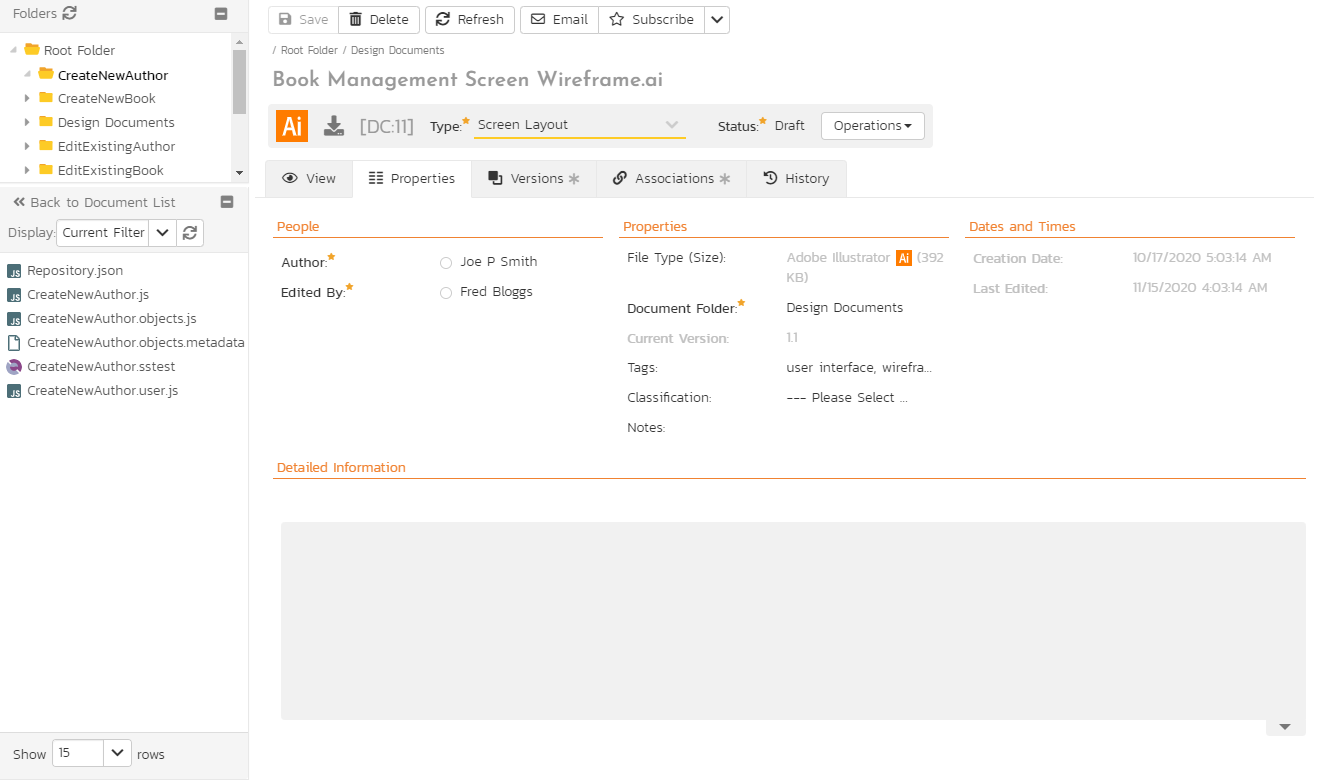
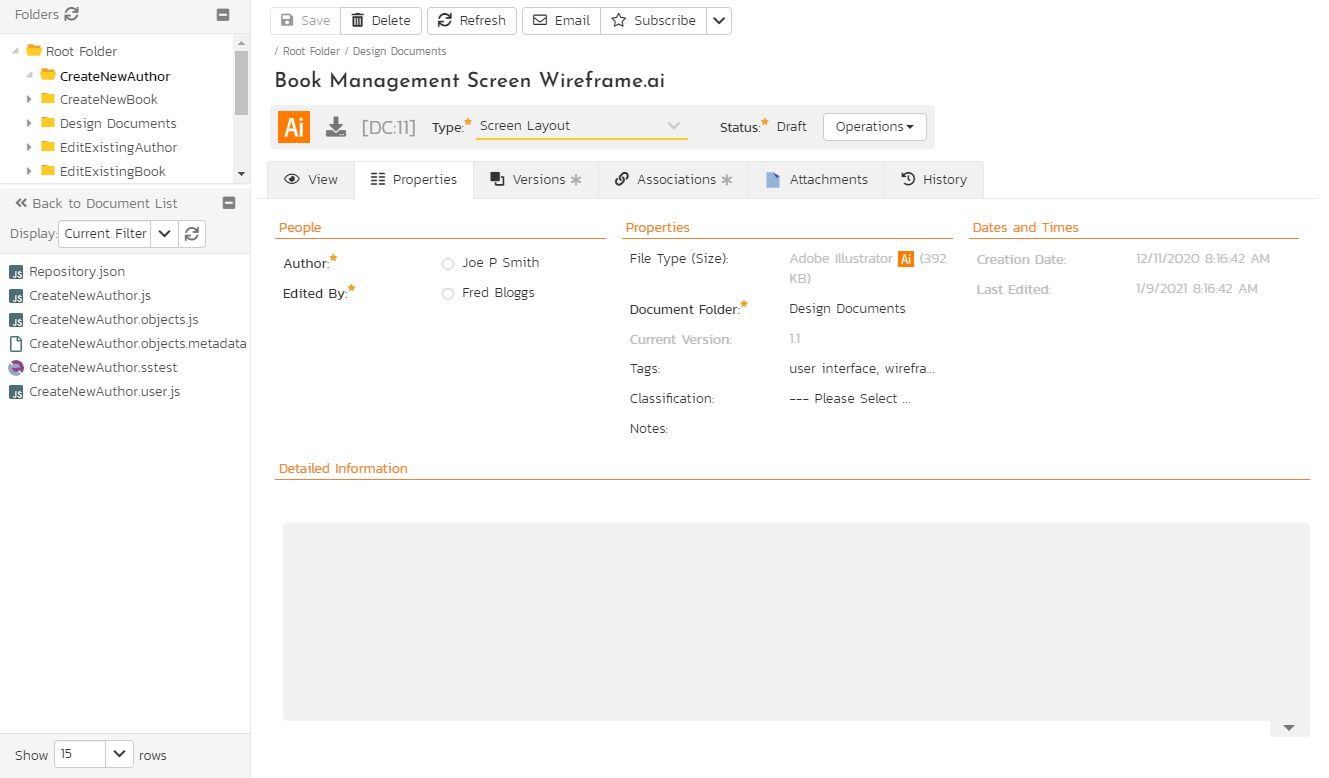
finishes documentation for 6.9

diff --git a/docs/Spira-User-Manual/Reports-Center.md b/docs/Spira-User-Manual/Reports-Center.md
@@ -10,7 +10,7 @@ This page consists of four main areas:
 1. The top bar shows the product name, controls for changing the graph widgets, and a **dropdown release picker**. The selected release will affect all of the reporting / graphing widgets simultaneously. You can either choose a specific release (includes any child sprints) or "All Releases". Your selection here is synced with the selection you set on the product dashboard page.
 2. The top left-hand pane displays a list of any reports that have either been saved by the currently logged in user, or those reports created by other members of the product, that have been marked (by that user) as 'shareable'.
 3. The bottom left-hand main pane displays a list of the printable reports available in the system, categorized by the artifact they primarily relate to (requirements, test cases, incidents and releases). Clicking on any of the report hyperlinks will take you to the [configuration page](#reports-configuration) for the report in question below for details).
-4. The right-hand pane is a dashboard that contains the set of graph widgets configured by the current user. By default the dashboard will display: the Incident Progress Rate, Test Run Progress Rate, Requirement Summary, Test Case Summary, Incident Aging and Task Burndown. When "All Releases" is seleted from the dropdown release picker, some widgets show information for every single release and sprint, and others only for active releases/sprints[^active-release]:
+4. The right-hand pane is a dashboard that contains the set of graph widgets configured by the current user. By default the dashboard will display: the Incident Progress Rate, Test Run Progress Rate, Requirement Summary, Test Case Summary, Incident Aging and Task Burndown. When "All Releases" is selected from the dropdown release picker, some widgets show information for every single release and sprint, and others only for active releases/sprints[^active-release]:
 
     - Requirement Graphs widget: only active releases
     - Task Graphs widgets: only active releases
@@ -18,7 +18,6 @@ This page consists of four main areas:
     - All Date-Range Graphs widgets: all releases
     - Custom Graphs that use the token ${ReleaseId}: no data
     - Custom Graphs that use the token ${ReleaseAndChildIds}: only active releases
-
 
 In addition to the graphs displayed by default, you can click on the "***Add Items***" buttons to add additional graphs to the reporting dashboard:
 
@@ -319,7 +318,7 @@ The requirements coverage graph shows how many requirements are currently in a p
 
 The x-axis of the report represents the various test execution statuses that a requirement can have as its coverage status (plus the Not-Covered status), and the individual bars are grouped by the requirements importance. Each data-value can be viewed by positioning the mouse pointer over the bar, and a "tooltip" will pop-up listing the actual data value.
 
-Clicking on the "***Display Data Grid***" button will display the underlying data that is being used to generate the graph. You can also filter the graph to just display data for a specific release/sprint as well as for the product as a whole. In addition, clicking on the "***Download Data as CSV***" button will export the datagrid into Comma Separated Values (CSV) format that can be opened in MS-Excel. Some browsers also support the ability to save the graph as an image file (JPEG, PNG and GIF formats).
+Clicking on the "***Display Data Grid***" button will display the underlying data that is being used to generate the graph. In addition, clicking on the "***Download Data as CSV***" button will export the datagrid into Comma Separated Values (CSV) format that can be opened in MS-Excel. Some browsers also support the ability to save the graph as an image file (JPEG, PNG and GIF formats).
 
 
 ### Requirements Burndown Graph
@@ -330,13 +329,11 @@ The Requirements Burndown graph shows the remaining number of story points that 
 
 The y-axis of the graph displays the total remaining number of story points that needs to be done (the actual burndown), with a blue line indicating the ideal burndown. In addition, there are bars displayed at each interval of the x-axis that shows the completed number of story points for that interval.
 
-The x-axis can be configured to display three different levels of granularity:
+The x-axis display will change based on the selection of the [dropdown release picker](#overview):
 
-**All Releases** -- This shows the total remaining number of story points that needs to be done for each of the releases in the product
-
-**Specific Release** -- This shows the total remaining number of story points that needs to be done for each of the sprints in the selected release
-
-**Specific Sprint** -- This shows the total remaining number of story points that needs to be done for each working day in the date-range covered by the selected sprint.
+- **All Releases**: total remaining story points for each releases in the product
+- **Specific Release**: total remaining story points for each of the sprints in the selected release
+- **Specific Sprint**: total remaining story points for each working day in the date-range covered by the selected sprint
 
 Clicking on the "***Display Data Grid***" button will display the underlying data that is being used to generate the graph. In addition, clicking on the "***Download Data as CSV***" button will export the datagrid into Comma Separated Values (CSV) format that can be opened in MS-Excel. Some browsers also support the ability to save the graph as an image file (JPEG, PNG and GIF formats).
 
@@ -349,13 +346,11 @@ The Requirements Burnup graph shows the cumulative number of story points outsta
 
 The y-axis of the graph displays the cumulative increase in number of story points for the product (the actual burnup), with a blue line indicating the ideal burnup. In addition, there are bars displayed at each interval of the x-axis that shows the number of completed story points for that interval.
 
-The x-axis can be configured to display three different levels of granularity:
+The x-axis display will change based on the selection of the [dropdown release picker](#overview):
 
-**All Releases** -- This shows the increase in number of story points for each of the releases in the product
-
-**Specific Release** -- This shows the increase in number of story points for each of the sprints in the selected release
-
-**Specific Sprint** -- This shows the increase in number of story points for each working day in the date-range covered by the selected sprint.
+- **All Releases**: increase in the story points for each releases in the product
+- **Specific Release**: increase in the story points for each of the sprints in the selected release
+- **Specific Sprint**: increase in the story points for each working day in the date-range covered by the selected sprint
 
 Clicking on the "***Display Data Grid***" button will display the underlying data that is being used to generate the graph. In addition, clicking on the "***Download Data as CSV***" button will export the datagrid into Comma Separated Values (CSV) format that can be opened in MS-Excel. Some browsers also support the ability to save the graph as an image file (JPEG, PNG and GIF formats).
 
@@ -366,13 +361,11 @@ The Requirements Velocity graph shows the total number of story points that have
 
 ![](img/Reports_Center_374.png)
 
-The y-axis of the graph displays the total number of story points, and the x-axis can be configured to display three different levels of granularity:
+The y-axis display will change based on the selection of the [dropdown release picker](#overview):
 
-**All Releases** -- This shows the total number of story points for each of the releases in the product
-
-**Specific Release** -- This shows the total number of story points for each of the sprints in the selected release
-
-**Specific Sprint** -- This shows the total number of story points for each working day in the date-range covered by the selected sprint.
+- **All Releases**: total remaining story points for each releases in the product
+- **Specific Release**: total remaining story points for each of the sprints in the selected release
+- **Specific Sprint**: total remaining story points for each working day in the date-range covered by the selected sprint
 
 Clicking on the "***Display Data Grid***" button will display the underlying data that is being used to generate the graph. In addition, clicking on the "***Download Data as CSV***" button will export the datagrid into Comma Separated Values (CSV) format that can be opened in MS-Excel. Some browsers also support the ability to save the graph as an image file (JPEG, PNG and GIF formats).
 
@@ -401,13 +394,11 @@ The Task Velocity graph shows the total estimated and actual effort (in number o
 
 ![](img/Reports_Center_377.png)
 
-The y-axis of the graph displays the total estimated and actual effort delivered (in hours), and the x-axis can be configured to display three different levels of granularity:
+The y-axis of the graph displays the total estimated and actual effort delivered (in hours). The x-axis display will change based on the selection of the [dropdown release picker](#overview):
 
-**All Releases** -- This shows the total estimated and actual effort for each of the releases in the product
-
-**Specific Release** -- This shows the total estimated and actual effort for each of the sprints in the selected release
-
-**Specific Sprint** -- This shows the total estimated actual effort for each working day in the date-range covered by the selected sprint.
+- **All Releases**: total estimated and actual effort for each releases in the product
+- **Specific Release**: total estimated and actual effort for each of the sprints in the selected release
+- **Specific Sprint**: total estimated and actual effort for each working day in the date-range covered by the selected sprint
 
 Clicking on the "***Display Data Grid***" button will display the underlying data that is being used to generate the graph. In addition, clicking on the "***Download Data as CSV***" button will export the datagrid into Comma Separated Values (CSV) format that can be opened in MS-Excel. Some browsers also support the ability to save the graph as an image file (JPEG, PNG and GIF formats).
 
@@ -420,13 +411,11 @@ The Task Burnup graph shows the cumulative amount of work outstanding for each r
 
 The y-axis of the graph displays the cumulative increase in work (in hours) for the product (the actual burnup), with a blue line indicating the ideal burnup. In addition, there are bars displayed at each interval of the x-axis that shows the remaining effort and completed effort for that interval.
 
-The x-axis can be configured to display three different levels of granularity:
+The x-axis display will change based on the selection of the [dropdown release picker](#overview):
 
-**All Releases** -- This shows the increase in work for each of the releases in the product
-
-**Specific Release** -- This shows the increase in work for each of the sprints in the selected release
-
-**Specific Sprint** -- This shows the increase in work for each working day in the date-range covered by the selected sprint.
+- **All Releases**: increase in work for each releases in the product
+- **Specific Release**: increase in work for each of the sprints in the selected release
+- **Specific Sprint**: increase in work for each working day in the date-range covered by the selected sprint
 
 Clicking on the "***Display Data Grid***" button will display the underlying data that is being used to generate the graph. In addition, clicking on the "***Download Data as CSV***" button will export the datagrid into Comma Separated Values (CSV) format that can be opened in MS-Excel. Some browsers also support the ability to save the graph as an image file (JPEG, PNG and GIF formats).
 
@@ -438,7 +427,7 @@ The blue line on the graphs indicates the ideal burndown. The other line shows t
 
 ![](img/Reports_Center_379.png)
 
-**How changing the displayed release for the page changes the x-axis:**
+The x-axis display will change based on the selection of the [dropdown release picker](#overview):
 
 - **All Releases**: all active releases in the product
 - **Specific Release**: all sprints within the chosen release. If the release has no sprints, the chart will be empty -- child releases are not shown

diff --git a/docs/About/release-notes-v6.md b/docs/About/release-notes-v6.md
@@ -9,7 +9,7 @@
 
     - **Access custom report data from external tools** (SpiraPlan): First, we've added [lots more reporting views](../../Reporting/Custom-Report-Tables) to help build out even more queries (available in all editions of Spira). Next, SpiraPlan customers can use 3rd party tools like spreadsheets and database reporting packages to query and report against all custom report tables in the application via the ODATA standard (read our [in-depth tutorial](../../Reporting/OData-Tutorial)). This takes custom reports to a whole new level of integration and ease of use.
 
-    - **Customize custom fields**: [Custom properties](../../Spira-Administration-Guide/Templates-Custom-Properties) have been turned up to 100 (minus 1). You can now have 99 custom properties for each artifact in a template. Order your custom properties how you like, and add a useful tooltip description for users to read on details pages. 
+    - **Customize custom fields**: [Custom properties](../../Spira-Administration-Guide/Template-Custom-Properties) have been turned up to 100 (minus 1). You can now have 99 custom properties for each artifact in a template. Order your custom properties how you like, and add a useful tooltip description for users to read on details pages. 
 
     **NOTE**: Internet Explorer is no longer supported by SpiraTest, SpiraTeam, or SpiraPlan. You should use a modern and secure browser instead.
 
@@ -26,9 +26,9 @@
 
     * **Custom Properties**
 
-        - You can [optionally set a position](../../Spira-Administration-Guide/Templates-Custom-Properties) for custom properties to change the order custom properties are displayed in each section on details pages [RQ:3053]
-        - You can optionally add [help tooltip text](../../Spira-Administration-Guide/Templates-Custom-Properties/#edit-custom-properties) to custom properties to explain to users how to use the field (they show as tooltips on details pages) [RQ:3055]
-        - Each artifact that has [custom properties](../../Spira-Administration-Guide/Templates-Custom-Properties) already now supports an additional 69 custom properties in each template, bringing the total to 99 [RQ:3052]
+        - You can [optionally set a position](../../Spira-Administration-Guide/Template-Custom-Properties) for custom properties to change the order custom properties are displayed in each section on details pages [RQ:3053]
+        - You can optionally add [help tooltip text](../../Spira-Administration-Guide/Template-Custom-Properties/#edit-custom-properties) to custom properties to explain to users how to use the field (they show as tooltips on details pages) [RQ:3055]
+        - Each artifact that has [custom properties](../../Spira-Administration-Guide/Template-Custom-Properties) already now supports an additional 69 custom properties in each template, bringing the total to 99 [RQ:3052]
 
     * **History and Baselining**
 
@@ -47,16 +47,27 @@
         - Let template admins prevent status changes by users with bulk edit permissions on artifact list and board pages via a new [product template setting](../../Spira-Administration-Guide/System-Workspaces/#view-edit-templates) [RQ:3049]
         - Show warnings on login page to all users a week before a license expires and clearer messages after a license has expired [RQ:2649]
         - Carry out a security review of SpiraPlan and address vulnerabilities found [RQ:2673]
-        - Improve [product cloning]../../Spira-Administration-Guide/System-Workspaces/#product-cloning) by giving users two options: a full product clone or a product copy to use as a clean slate [RQ:3083]
+        - Improve [product cloning](../../Spira-Administration-Guide/System-Workspaces/#product-cloning) by giving users two options: a full product clone or a product copy to use as a clean slate [RQ:3083]
 
 ??? bug "Bug fixes and enhancements"
 
     * **Administration**
 
-        - Stop product cloning exiting midway with a failure message if an attachment file is missing from the directory [IN:5611]
-        - Improve the performance of cloning a product by improving how attachments are copied into the new product [IN:6172]
-        - Add product and system admin settings option to disable various calculations and updates to temporarily improve performance [IN:6207]
-        - Add direct links to 'Custom Properties' in the Admin Menu under each Artifact Type to make navigation easier [IN:6239]
+        - Stop [product cloning](../../Spira-Administration-Guide/System-Workspaces/#product-cloning) exiting midway with a failure message if an attachment file is missing from the directory [IN:5611]
+        - Improve the performance of [cloning a product](../../Spira-Administration-Guide/System-Workspaces/#product-cloning) by improving how attachments are copied into the new product [IN:6172]
+        - Add [product](../../Spira-Administration-Guide/Product-Planning/#testing-settings) and [system](../../Spira-Administration-Guide/System/#general-settings) admin settings option to disable various calculations and updates to temporarily improve performance [IN:6207]
+        - Add direct links to '[Custom Properties](../../Spira-Administration-Guide/Template-Custom-Properties)' in the Admin Menu under each Artifact Type to make navigation easier [IN:6239]
+
+    * **Enhancements**
+
+        - Convert the [Saved](../../Spira-User-Manual/User-Product-Management/#my-saved-reports) [Reports](../../Spira-User-Manual/Reports-Center) Widget's hyperlinks to make them shareable [IN:6106]
+        - Add [additional views for custom reporting](../../Reporting/Custom-Report-Tables) to give more flexibility in what data can be queried [IN:6307]
+        - Add an [attachments tab for documents](../../Spira-User-Manual/Document-Management/#attachments), to enable, for example, pasting of images into inline rich text documents [IN:6243]
+        - Allow document names to be edited on [list](../../Spira-User-Manual/Document-Management/#document-list) and [details](../../Spira-User-Manual/Document-Management/#document-details) pages (note that the filename will be overwritten when you upload a new version) [IN:6292]
+        - Add an option on the [requirement detail page](../../Spira-User-Manual/Requirements-Management/#requirement-details) to insert a child requirement to the current requirement [IN:4913]
+        - Improve the performance of associations tabs by adding a database index to speed up the most common retrieval [IN:6173]
+        - Navigating tabs on details pages updates the URL with the tab name to make it easier to share your current view with others [IN:6194]
+        - Make it clear when using the application with Internet Explorer that the browser is no longer supported [IN:6246]
     
     * **Bug fixes**
 
@@ -69,17 +80,6 @@
         - Fix inline document editing version number not increasing automatically for all cultures (eg if a comma is used for denoting decimals) [IN:6253]
         - Do not allow users to create multiple custom properties for an artifact with the same property number as this can cause detail pages not to load [IN:6264]
         - Limit requirement tooltip to only show the start of, not the whole, description and comment fields, if the field is long (hierarchical views only) [IN:6302]
-
-    * **Enhancements**
-
-        - Make it clear when using the application with Internet Explorer that the browser is no longer supported [IN:6246]
-        - Add an attachments tab for documents, to enable, for example, pasting of images into inline rich text documents [IN:6243]
-        - Allow document names to be edited on list and details pages (note that the filename will be overwritten when you upload a new version) [IN:6292]
-        - Add an option on the requirement detail page to insert a child requirement to the current requirement [IN:4913]
-        - Convert the Saved Reports Widget's hyperlinks to make them shareable [IN:6106]
-        - Improve the performance of associations tabs by adding a database index to speed up the most common retrieval [IN:6173]
-        - Navigating tabs on details pages updates the URL with the tab name to make it easier to share your current view with others [IN:6194]
-        - Add [additional views for custom reporting](../../Reporting/Custom-Report-Tables) to give more flexibility in what data can be queried [IN:6307]
 
     * Security fixes
 

diff --git a/docs/Spira-Administration-Guide/System.md b/docs/Spira-Administration-Guide/System.md
@@ -7,8 +7,6 @@ The general settings page allows you to configure SpiraPlan® to better match yo
 
 ![](img/System_57.png)
 
-![](img/System_58.png)
-
 The available settings include:
 
 - **Default Culture**: SpiraPlan can display information in a variety of different languages (assuming that the appropriate language packs have been installed) and number formats. By default, SpiraPlan will use the regional settings (language and number formats) of the operating system it has been installed on. However, you can override this default by choosing the appropriate culture from the list of options displayed in the drop-down list. *Note: The list of culture options does not reflect the available language packs, so in some cases, the setting will only change the number formats.*
@@ -23,7 +21,8 @@ The available settings include:
 - **Instant Messenger**: SpiraPlan and SpiraTeam come with a built-in instant messenger that allows users to communicate with each other in real-time. This can result in higher levels of network traffic and some system administrators may wish to disable this feature. This option lets you disable the integrated instant messenger. In addition, you can specify how long (in days) instant messages are retained in the system.
 - **Event Log Retention**: As described in  [Event Log](#event-log), SpiraPlan comes with a built-in diagnostic event log. By default the system will only retain the last 30-days of events to avoid wasting storage space. You can adjust the retention period in this section to match your organization's policies.
 - **Enable Free Text Indexes**: This tells SpiraPlan to use SQL Server Free Text Indexing to speed up keyword searches in the Global Search box. You should only have this set to "Yes" if you have the Free Text Indexing featured enabled in SQL Server, otherwise you will cause SpiraPlan to display error messages when users try and use the global search.
-- **Use TaraVault for source code**: This toggle is only available to cloud hosted versions of SpiraTeam and SpiraPlan. Cloud hosted applications will, by default, use [TaraVault](../TaraVault-User-Manual/Activating-TaraVault.md) for source code management. Administrators can turn off TaraVault and then connect directly to any third party source code provider they choose.
+- **Disable Rollup Calculations**: (default = no) Setting this to Yes will prevent the system from calculating 'rollup' metrics when data is entered for a product that has its [equivalent setting](../Product-Planning/#testing-settings) set to Yes. This should not be done unless you have been told by the Inflectra Support team to do so.
+- **Use TaraVault for source code**: This toggle is only available to cloud hosted versions of SpiraTeam and SpiraPlan. Cloud hosted applications will, by default, use [TaraVault](../../TaraVault-User-Manual/Activating-TaraVault) for source code management. Administrators can turn off TaraVault and then connect directly to any third party source code provider they choose.
 
 
 ## File Type Icons

diff --git a/docs/Spira-User-Manual/Requirements-Management.md b/docs/Spira-User-Manual/Requirements-Management.md
@@ -393,22 +393,22 @@ In this dialog you are focusing on the new requirement you are creating from per
 
 To complete the split click the `Split` button.
 
-**Notes about how the split works**:
+!!! info "Notes about how requirement splitting works
 
-- **New estimate**: 
+    - **New estimate**: 
 
-    - this defaults to blank in the split dialog. This will move all the remaining effort to the new requirement. 
-    - The new requirement's estimate cannot be greater than the original requirement's estimate (because this is moving some or all of its estimate to the new requirement).
+        - this defaults to blank in the split dialog. This will move all the remaining effort to the new requirement. 
+        - The new requirement's estimate cannot be greater than the original requirement's estimate (because this is moving some or all of its estimate to the new requirement).
 
-- **Status**: 
+    - **Status**: 
 
-    - the new requirement's status will match that of the original requirement
-    - if the original requirement's status is "In Progress" AND the new requirement takes all the estimate of the original requirement, the original requirement now has zero estimate left. In this case, the original requirement's status is automatically moved to "Developed". If the original requirement has any other status, no change occurs
+        - the new requirement's status will match that of the original requirement
+        - if the original requirement's status is "In Progress" AND the new requirement takes all the estimate of the original requirement, the original requirement now has zero estimate left. In this case, the original requirement's status is automatically moved to "Developed". If the original requirement has any other status, no change occurs
 
-- **Tasks** are not moved or cloned from the original requirement to the new requirement
-- **Test Coverage** is copied over to the new requirement (and left unchanged on the original requirement)
-- **Attachments** are copied over to the new requirement (and left unchanged on the original requirement)
-- All standard and custom field information is copied over to the new requirement
+    - **Tasks** are not moved or cloned from the original requirement to the new requirement
+    - **Test Coverage** is copied over to the new requirement (and left unchanged on the original requirement)
+    - **Attachments** are copied over to the new requirement (and left unchanged on the original requirement)
+    - All standard and custom field information is copied over to the new requirement
 
 
 ### Overview - Details

diff --git a/docs/About/roadmap.md b/docs/About/roadmap.md
@@ -10,11 +10,10 @@
 ## What has been released
 Please take a look at our [release notes](../release-notes-v6) to see a complete list of the changes large and small that we have recently delivered.
 
-## Version 6.9 (May/June 2021)
-- **Baselining enhancements** (SpiraTeam and SpiraPlan): improved views for seeing changes between baselines, for instance so you can see all the changes made to a specific artifact between baseline 1 and baseline 2.
-- **Customize custom fields**: accessed to more custom fields per artifact, and the ability to, within each existing grouping of fields, set the field order 
-- **Improved requirement document view** (SpiraTeam and SpiraPlan): lets users customize which fields to display; edit requirement names, descriptions, and other rich text fields; display the requirement hierarchy position as an outline code (e.g. 1.2.11); improved pagination
-- **Access custom report data from external tools**: use 3rd party tools like spreadsheets and database reporting packages to query and report against all custom report tables in the application via the ODATA standard 
+## Version 6.10 (early summer 2021)
+- Allow users to edit requirements directly from the planning board pages
+- Improve the v6 APIs with additional functions to allow increased automated management of more parts of the applicaton
+- Improve the sample data available to users on first trying out SpiraPlan with more industry specific example products available
 
 ## Planning
 - **New planning tools and visualizations**: Enhanced planning board, including being able to apply filters, additional ways to group data, and swim lanes.

diff --git a/docs/Reporting/OData-Tutorial.md b/docs/Reporting/OData-Tutorial.md
@@ -1,6 +1,6 @@
 # OData Tutorial
 ## Introduction
-[OData](https://en.wikipedia.org/wiki/Open_Data_Protocol) is an open protocol that lets you easily query data, over the web. Exclusive to SpiraPlan (6.9+), with OData you can directly query the raw data in your database in a secure and safe way. Whenever you use OData in SpiraPlan you are communicating through a secure intermediary (the application itself) to get data from read-only [reporting views](../Custom-Reporting-Tables). Tools like Excel, PowerBI, Tableau support OData and can therefore communicate with SpiraPlan to access this data with just a few clicks.
+[OData](https://en.wikipedia.org/wiki/Open_Data_Protocol) is an open protocol that lets you easily query data, over the web. Exclusive to SpiraPlan (6.9+), with OData you can directly query the raw data in your database in a secure and safe way. Whenever you use OData in SpiraPlan you are communicating through a secure intermediary (the application itself) to get data from read-only [reporting views](../Custom-Report-Tables). Tools like Excel, PowerBI, Tableau support OData and can therefore communicate with SpiraPlan to access this data with just a few clicks.
 
 With OData you don't need to be a SQL expert to generate rich and dynamic insights into your data. If you can fiddle with a spreadsheet, you can stich tables of data from SpiraPlan ("joins" in database language) to get just the data you need. What sort of insights can you get with OData and SpiraPlan reporting views? Here are some examples:
 

diff --git a/docs/Spira-Administration-Guide/Product-Planning.md b/docs/Spira-Administration-Guide/Product-Planning.md
@@ -84,6 +84,7 @@ You can enable or disable the following settings:
 * **Execute Only From Test Sets**: (default = no) when turned on testers will not be able to execute Test Cases. They will only be able to execute Test Sets.
 * **Auto create a test step**: (default = yes) automatically create a default test step on the creation of any test case.
 * **Worx Integration**: (default = no) integrating with the Worx desktop application.
+* **Disable Rollup Calculations**: (default = no) setting this to Yes will prevent the system from calculating 'rollup' metrics for this product when data is entered in the system (but only if the [equivalent system setting](../System/#general-settings) is also set to yes). This should not be done unless you have been told by the Inflectra Support team to do so. If you have turned this on and then want to return your product to normal, set this back to no, and then refresh the test coverage and task progress on the product admin [Data Tools](../Product-General-Settings/#product-data-tools) page.
 
 
 ## Edit Components

diff --git a/docs/Spira-User-Manual/User-Product-Management.md b/docs/Spira-User-Manual/User-Product-Management.md
@@ -208,7 +208,7 @@ button.
 
 ## My Saved Reports
 
-This section lists any reports you have saved from the reports center. This allows you to store specific combinations of report elements, format, filters and sorts (see the section on Reporting for more details on how to configure a report) for reports that you need to run on a regular basis:
+This section lists any reports you have saved from the reports center. This allows you to store specific combinations of report elements, format, filters and sorts (see the section on Reporting for more details on how to configure a report) for reports that you need to run on a regular basis.
 
 
 ## My Subscribed Artifacts

diff --git a/docs/Spira-User-Manual/Document-Management.md b/docs/Spira-User-Manual/Document-Management.md
@@ -196,12 +196,14 @@ Note: This option is only available for files. You cannot add a new URL version 
 
 
 ### Associations
-
 You can associate a document to many other artifacts in the system from this tab. If you originally uploaded the document as an attachment to an artifact, then the initial association will be already listed. Read more about [how to manage and add associations to this artifact](Application-Wide.md#associations)
 
 
-### History
+### Attachments
+Read about [how the attachment tab works](Application-Wide.md#attachments)
 
+
+### History
 Read about [how the history tab works](Application-Wide.md#history)
 
 
